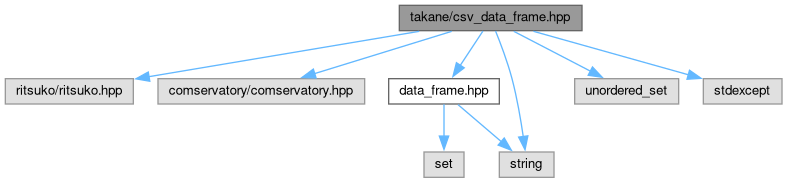
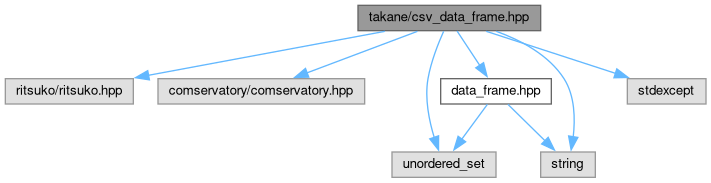
Deploying to gh-pages from @ ArtifactDB/takane@bec4c52731eb27a980d012ab4fdaf152412fb62d 🚀

Changed region(s): [[0.0, 0.0, 1.0, 0.9836], [0.7426, 0.6831, 0.8354, 0.9836], [0.2475, 0.2459, 0.4332, 0.3825]]

diff --git a/docs/data__frame_8hpp_source.html b/docs/data__frame_8hpp_source.html
@@ -81,7 +81,7 @@ $(function() {
 <a href="data__frame_8hpp.html">Go to the documentation of this file.</a><div class="fragment"><div class="line"><a id="l00001" name="l00001"></a><span class="lineno">    1</span><span class="preprocessor">#ifndef TAKANE_DATA_FRAME_HPP</span></div>
 <div class="line"><a id="l00002" name="l00002"></a><span class="lineno">    2</span><span class="preprocessor">#define TAKANE_DATA_FRAME_HPP</span></div>
 <div class="line"><a id="l00003" name="l00003"></a><span class="lineno">    3</span> </div>
-<div class="line"><a id="l00004" name="l00004"></a><span class="lineno">    4</span><span class="preprocessor">#include &lt;set&gt;</span></div>
+<div class="line"><a id="l00004" name="l00004"></a><span class="lineno">    4</span><span class="preprocessor">#include &lt;unordered_set&gt;</span></div>
 <div class="line"><a id="l00005" name="l00005"></a><span class="lineno">    5</span><span class="preprocessor">#include &lt;string&gt;</span></div>
 <div class="line"><a id="l00006" name="l00006"></a><span class="lineno">    6</span> </div>
 <div class="line"><a id="l00012" name="l00012"></a><span class="lineno">   12</span><span class="keyword">namespace </span>takane {</div>
@@ -110,13 +110,13 @@ $(function() {
 <div class="line"><a id="l00061" name="l00061"></a><span class="lineno">   61</span> </div>
 <div class="line"><a id="l00065" name="l00065"></a><span class="lineno"><a class="line" href="structtakane_1_1data__frame_1_1ColumnDetails.html#a2ce87b640816dcded292d3a1aa761db0">   65</a></span>    <a class="code hl_enumeration" href="data__frame_8hpp.html#ae9316d06d2cc382804fa777f595f34e9">StringFormat</a> <a class="code hl_variable" href="structtakane_1_1data__frame_1_1ColumnDetails.html#a2ce87b640816dcded292d3a1aa761db0">format</a> = StringFormat::NONE;</div>
 <div class="line"><a id="l00066" name="l00066"></a><span class="lineno">   66</span> </div>
-<div class="line"><a id="l00070" name="l00070"></a><span class="lineno"><a class="line" href="structtakane_1_1data__frame_1_1ColumnDetails.html#aeafc9024e72cc95bce8bf48b0aa78229">   70</a></span>    std::set&lt;std::string&gt; <a class="code hl_variable" href="structtakane_1_1data__frame_1_1ColumnDetails.html#aeafc9024e72cc95bce8bf48b0aa78229">factor_levels</a>;</div>
+<div class="line"><a id="l00070" name="l00070"></a><span class="lineno"><a class="line" href="structtakane_1_1data__frame_1_1ColumnDetails.html#a1da608f167850a020b9ef8daa99a0194">   70</a></span>    std::unordered_set&lt;std::string&gt; <a class="code hl_variable" href="structtakane_1_1data__frame_1_1ColumnDetails.html#a1da608f167850a020b9ef8daa99a0194">factor_levels</a>;</div>
 <div class="line"><a id="l00071" name="l00071"></a><span class="lineno">   71</span> </div>
 <div class="line"><a id="l00076" name="l00076"></a><span class="lineno"><a class="line" href="structtakane_1_1data__frame_1_1ColumnDetails.html#a3ff00d2d3f624d543c1dd61bb486c25b">   76</a></span>    <span class="keywordtype">void</span> <a class="code hl_function" href="structtakane_1_1data__frame_1_1ColumnDetails.html#a3ff00d2d3f624d543c1dd61bb486c25b">add_factor_level</a>(std::string x) {</div>
-<div class="line"><a id="l00077" name="l00077"></a><span class="lineno">   77</span>        <span class="keywordflow">if</span> (<a class="code hl_variable" href="structtakane_1_1data__frame_1_1ColumnDetails.html#aeafc9024e72cc95bce8bf48b0aa78229">factor_levels</a>.find(x) != <a class="code hl_variable" href="structtakane_1_1data__frame_1_1ColumnDetails.html#aeafc9024e72cc95bce8bf48b0aa78229">factor_levels</a>.end()) {</div>
+<div class="line"><a id="l00077" name="l00077"></a><span class="lineno">   77</span>        <span class="keywordflow">if</span> (<a class="code hl_variable" href="structtakane_1_1data__frame_1_1ColumnDetails.html#a1da608f167850a020b9ef8daa99a0194">factor_levels</a>.find(x) != <a class="code hl_variable" href="structtakane_1_1data__frame_1_1ColumnDetails.html#a1da608f167850a020b9ef8daa99a0194">factor_levels</a>.end()) {</div>
 <div class="line"><a id="l00078" name="l00078"></a><span class="lineno">   78</span>            <span class="keywordflow">throw</span> std::runtime_error(<span class="stringliteral">&quot;factor level &#39;&quot;</span> + x + <span class="stringliteral">&quot;&#39; already exists in this column&quot;</span>);</div>
 <div class="line"><a id="l00079" name="l00079"></a><span class="lineno">   79</span>        }</div>
-<div class="line"><a id="l00080" name="l00080"></a><span class="lineno">   80</span>        <a class="code hl_variable" href="structtakane_1_1data__frame_1_1ColumnDetails.html#aeafc9024e72cc95bce8bf48b0aa78229">factor_levels</a>.insert(std::move(x));</div>
+<div class="line"><a id="l00080" name="l00080"></a><span class="lineno">   80</span>        <a class="code hl_variable" href="structtakane_1_1data__frame_1_1ColumnDetails.html#a1da608f167850a020b9ef8daa99a0194">factor_levels</a>.insert(std::move(x));</div>
 <div class="line"><a id="l00081" name="l00081"></a><span class="lineno">   81</span>    }</div>
 <div class="line"><a id="l00082" name="l00082"></a><span class="lineno">   82</span>};</div>
 <div class="line"><a id="l00083" name="l00083"></a><span class="lineno">   83</span> </div>
@@ -128,11 +128,11 @@ $(function() {
 <div class="ttc" id="adata__frame_8hpp_html_a7e9c7d00676330721b873a92bbb8302b"><div class="ttname"><a href="data__frame_8hpp.html#a7e9c7d00676330721b873a92bbb8302b">takane::data_frame::ColumnType</a></div><div class="ttdeci">ColumnType</div><div class="ttdef"><b>Definition:</b> data_frame.hpp:26</div></div>
 <div class="ttc" id="adata__frame_8hpp_html_ae9316d06d2cc382804fa777f595f34e9"><div class="ttname"><a href="data__frame_8hpp.html#ae9316d06d2cc382804fa777f595f34e9">takane::data_frame::StringFormat</a></div><div class="ttdeci">StringFormat</div><div class="ttdef"><b>Definition:</b> data_frame.hpp:42</div></div>
 <div class="ttc" id="astructtakane_1_1data__frame_1_1ColumnDetails_html"><div class="ttname"><a href="structtakane_1_1data__frame_1_1ColumnDetails.html">takane::data_frame::ColumnDetails</a></div><div class="ttdoc">Details for a column of a data frame.</div><div class="ttdef"><b>Definition:</b> data_frame.hpp:51</div></div>
+<div class="ttc" id="astructtakane_1_1data__frame_1_1ColumnDetails_html_a1da608f167850a020b9ef8daa99a0194"><div class="ttname"><a href="structtakane_1_1data__frame_1_1ColumnDetails.html#a1da608f167850a020b9ef8daa99a0194">takane::data_frame::ColumnDetails::factor_levels</a></div><div class="ttdeci">std::unordered_set&lt; std::string &gt; factor_levels</div><div class="ttdef"><b>Definition:</b> data_frame.hpp:70</div></div>
 <div class="ttc" id="astructtakane_1_1data__frame_1_1ColumnDetails_html_a2ce87b640816dcded292d3a1aa761db0"><div class="ttname"><a href="structtakane_1_1data__frame_1_1ColumnDetails.html#a2ce87b640816dcded292d3a1aa761db0">takane::data_frame::ColumnDetails::format</a></div><div class="ttdeci">StringFormat format</div><div class="ttdef"><b>Definition:</b> data_frame.hpp:65</div></div>
 <div class="ttc" id="astructtakane_1_1data__frame_1_1ColumnDetails_html_a3ff00d2d3f624d543c1dd61bb486c25b"><div class="ttname"><a href="structtakane_1_1data__frame_1_1ColumnDetails.html#a3ff00d2d3f624d543c1dd61bb486c25b">takane::data_frame::ColumnDetails::add_factor_level</a></div><div class="ttdeci">void add_factor_level(std::string x)</div><div class="ttdef"><b>Definition:</b> data_frame.hpp:76</div></div>
 <div class="ttc" id="astructtakane_1_1data__frame_1_1ColumnDetails_html_abcf44f1458bbf7106606531afc065957"><div class="ttname"><a href="structtakane_1_1data__frame_1_1ColumnDetails.html#abcf44f1458bbf7106606531afc065957">takane::data_frame::ColumnDetails::name</a></div><div class="ttdeci">std::string name</div><div class="ttdef"><b>Definition:</b> data_frame.hpp:55</div></div>
 <div class="ttc" id="astructtakane_1_1data__frame_1_1ColumnDetails_html_abecf2ab0b4257f66b18a33685f8f81e4"><div class="ttname"><a href="structtakane_1_1data__frame_1_1ColumnDetails.html#abecf2ab0b4257f66b18a33685f8f81e4">takane::data_frame::ColumnDetails::type</a></div><div class="ttdeci">ColumnType type</div><div class="ttdef"><b>Definition:</b> data_frame.hpp:60</div></div>
-<div class="ttc" id="astructtakane_1_1data__frame_1_1ColumnDetails_html_aeafc9024e72cc95bce8bf48b0aa78229"><div class="ttname"><a href="structtakane_1_1data__frame_1_1ColumnDetails.html#aeafc9024e72cc95bce8bf48b0aa78229">takane::data_frame::ColumnDetails::factor_levels</a></div><div class="ttdeci">std::set&lt; std::string &gt; factor_levels</div><div class="ttdef"><b>Definition:</b> data_frame.hpp:70</div></div>
 </div><!-- fragment --></div><!-- contents -->
 <!-- start footer part -->
 <hr class="footer"/><address class="footer"><small>

diff --git a/docs/index.html b/docs/index.html
@@ -91,10 +91,10 @@ $(function() {
 <li><b>For <code>data_frame.version &gt;= 2</code>:</b> A factor column is represented by a integer HDF5 dataset. Any integer data type can be used at the discretion of the data generator, though the type's range of values must be representable by a 32-bit signed integer. Each integer is an index into the array of factor levels, found in the <code>data_frame.columns.levels</code> property. Each integer should be non-negative and less than the total number of levels, or equal to the missing value placeholder (see below).</li>
 <li><b>For <code>data_frame.version = 1</code>:</b> A factor column is represented by any string dataset. Each entry in the string dataset should either be present in the set of levels or be equal to the missing placeholder value (see below).</li>
 <li>Floating-point columns can be represented by any floating-point datatype at the discretion of the data generator. IEEE special values like Inf and NaN are allowed.</li>
-<li>String columns can be represented by any string datatype (fixed or variable, ASCII or UTF-8) at the discretion of the data generator. The character encoding specified in the dataset's type should be respected. Strings may be associated with further format constraints based on the <code>data_frame.columns.format</code> property, which may be one of the following:<ul>
+<li>String columns can be represented by any string datatype (fixed or variable, ASCII or UTF-8) at the discretion of the data generator. The character encoding specified in the dataset's type should be respected. Non-missing strings may be associated with further format constraints based on the <code>data_frame.columns.format</code> property, which may be one of the following:<ul>
 <li>No format constraints.</li>
 <li>String must be a <code>YYYY-MM-DD</code> date.</li>
-<li>String must be an Internet date/time complying with the RFC3339 specification. Note that strings equal to the missing value placeholder are not subject to these constraints.</li>
+<li>String must be an Internet date/time complying with the RFC3339 specification.</li>
 </ul>
 </li>
 </ul>
@@ -145,6 +145,28 @@ $(function() {
 </li>
 </ul>
 <p >For non-atomic columns, a placeholder column should be present in the CSV. This placeholder may be of any type as it will be ignored by readers.</p>
+<details >
+<p ><summary>Example usage</summary></p>
+<p >Here we validate a CSV data frame with columns of different types and row names:</p>
+<div class="fragment"><div class="line"><span class="preprocessor">#include &quot;takane/takane.hpp&quot;</span></div>
+<div class="line"> </div>
+<div class="line">std::vector&lt;takane::data_frame::ColumnDetails&gt; expected_columns(5);</div>
+<div class="line">expected_columns[0].type = takane::data_frame::ColumnType::INTEGER;</div>
+<div class="line">expected_columns[1].type = takane::data_frame::ColumnType::STRING;</div>
+<div class="line">expected_columns[2].type = takane::data_frame::ColumnType::STRING;</div>
+<div class="line">expected_columns[2].format = takane::data_frame::StringFormat::DATETIME;</div>
+<div class="line">expected_columns[3].type = takane::data_frame::ColumnType::FACTOR;</div>
+<div class="line">expected_columns[3].add_factor_level(<span class="stringliteral">&quot;foo&quot;</span>); <span class="comment">// taken from &#39;data_frame.columns[3].levels&#39;</span></div>
+<div class="line">expected_columns[3].add_factor_level(<span class="stringliteral">&quot;bar&quot;</span>);</div>
+<div class="line">expected_columns[4].type = takane::data_frame::ColumnType::NUMBER;</div>
+<div class="line"> </div>
+<div class="line">takane::data_frame::validate_csv(</div>
+<div class="line">    path, </div>
+<div class="line">    <span class="comment">/* num_rows = */</span> 9876, </div>
+<div class="line">    <span class="comment">/* has_row_names = */</span> <span class="keyword">true</span>, </div>
+<div class="line">    <span class="comment">/* columns = */</span> expected_columns</div>
+<div class="line">);</div>
+</div><!-- fragment --> </details>
 <h1>Building projects</h1>
 <h2>CMake with <code>FetchContent</code></h2>
 <p >If you're using CMake, you just need to add something like this to your <code>CMakeLists.txt</code>:</p>

diff --git a/docs/csv__data__frame_8hpp_source.html b/docs/csv__data__frame_8hpp_source.html
@@ -188,11 +188,11 @@ $(function() {
 <div class="line"><a id="l00116" name="l00116"></a><span class="lineno">  116</span>};</div>
 <div class="line"><a id="l00117" name="l00117"></a><span class="lineno">  117</span> </div>
 <div class="line"><a id="l00118" name="l00118"></a><span class="lineno">  118</span><span class="keyword">struct </span>TakaneFactorV1Field : <span class="keyword">public</span> comservatory::StringField {</div>
-<div class="line"><a id="l00119" name="l00119"></a><span class="lineno">  119</span>    TakaneFactorV1Field(<span class="keywordtype">size_t</span> n = 0, <span class="keywordtype">int</span> <span class="keywordtype">id</span> = 0, <span class="keyword">const</span> std::set&lt;std::string&gt;* l = NULL) : nrecords(n), column_id(id), levels(l) {}</div>
+<div class="line"><a id="l00119" name="l00119"></a><span class="lineno">  119</span>    TakaneFactorV1Field(<span class="keywordtype">size_t</span> n = 0, <span class="keywordtype">int</span> <span class="keywordtype">id</span> = 0, <span class="keyword">const</span> std::unordered_set&lt;std::string&gt;* l = NULL) : nrecords(n), column_id(id), levels(l) {}</div>
 <div class="line"><a id="l00120" name="l00120"></a><span class="lineno">  120</span> </div>
 <div class="line"><a id="l00121" name="l00121"></a><span class="lineno">  121</span>    <span class="keywordtype">size_t</span> nrecords = 0;</div>
 <div class="line"><a id="l00122" name="l00122"></a><span class="lineno">  122</span>    <span class="keywordtype">int</span> column_id = 0;</div>
-<div class="line"><a id="l00123" name="l00123"></a><span class="lineno">  123</span>    <span class="keyword">const</span> std::set&lt;std::string&gt;* levels = NULL;</div>
+<div class="line"><a id="l00123" name="l00123"></a><span class="lineno">  123</span>    <span class="keyword">const</span> std::unordered_set&lt;std::string&gt;* levels = NULL;</div>
 <div class="line"><a id="l00124" name="l00124"></a><span class="lineno">  124</span> </div>
 <div class="line"><a id="l00125" name="l00125"></a><span class="lineno">  125</span>    <span class="keywordtype">size_t</span> size()<span class="keyword"> const </span>{</div>
 <div class="line"><a id="l00126" name="l00126"></a><span class="lineno">  126</span>        <span class="keywordflow">return</span> nrecords;</div>
@@ -258,7 +258,7 @@ $(function() {
 <div class="line"><a id="l00200" name="l00200"></a><span class="lineno">  200</span>    }</div>
 <div class="line"><a id="l00201" name="l00201"></a><span class="lineno">  201</span> </div>
 <div class="line"><a id="l00202" name="l00202"></a><span class="lineno">  202</span>    <span class="keywordtype">size_t</span> ncol = columns.size();</div>
-<div class="line"><a id="l00203" name="l00203"></a><span class="lineno">  203</span>    std::set&lt;std::string&gt; present;</div>
+<div class="line"><a id="l00203" name="l00203"></a><span class="lineno">  203</span>    std::unordered_set&lt;std::string&gt; present;</div>
 <div class="line"><a id="l00204" name="l00204"></a><span class="lineno">  204</span>    <span class="keywordflow">for</span> (<span class="keywordtype">size_t</span> c = 0; c &lt; ncol; ++c) {</div>
 <div class="line"><a id="l00205" name="l00205"></a><span class="lineno">  205</span>        <span class="keyword">const</span> <span class="keyword">auto</span>&amp; col = columns[c];</div>
 <div class="line"><a id="l00206" name="l00206"></a><span class="lineno">  206</span>        <span class="keywordflow">if</span> (present.find(col.name) != present.end()) {</div>

diff --git a/docs/structtakane_1_1data__frame_1_1ColumnDetails.html b/docs/structtakane_1_1data__frame_1_1ColumnDetails.html
@@ -101,8 +101,8 @@ Public Attributes</h2></td></tr>
 <tr class="separator:abecf2ab0b4257f66b18a33685f8f81e4"><td class="memSeparator" colspan="2">&#160;</td></tr>
 <tr class="memitem:a2ce87b640816dcded292d3a1aa761db0"><td class="memItemLeft" align="right" valign="top"><a class="el" href="data__frame_8hpp.html#ae9316d06d2cc382804fa777f595f34e9">StringFormat</a>&#160;</td><td class="memItemRight" valign="bottom"><a class="el" href="structtakane_1_1data__frame_1_1ColumnDetails.html#a2ce87b640816dcded292d3a1aa761db0">format</a> = StringFormat::NONE</td></tr>
 <tr class="separator:a2ce87b640816dcded292d3a1aa761db0"><td class="memSeparator" colspan="2">&#160;</td></tr>
-<tr class="memitem:aeafc9024e72cc95bce8bf48b0aa78229"><td class="memItemLeft" align="right" valign="top">std::set&lt; std::string &gt;&#160;</td><td class="memItemRight" valign="bottom"><a class="el" href="structtakane_1_1data__frame_1_1ColumnDetails.html#aeafc9024e72cc95bce8bf48b0aa78229">factor_levels</a></td></tr>
-<tr class="separator:aeafc9024e72cc95bce8bf48b0aa78229"><td class="memSeparator" colspan="2">&#160;</td></tr>
+<tr class="memitem:a1da608f167850a020b9ef8daa99a0194"><td class="memItemLeft" align="right" valign="top">std::unordered_set&lt; std::string &gt;&#160;</td><td class="memItemRight" valign="bottom"><a class="el" href="structtakane_1_1data__frame_1_1ColumnDetails.html#a1da608f167850a020b9ef8daa99a0194">factor_levels</a></td></tr>
+<tr class="separator:a1da608f167850a020b9ef8daa99a0194"><td class="memSeparator" colspan="2">&#160;</td></tr>
 </table>
 <a name="details" id="details"></a><h2 class="groupheader">Detailed Description</h2>
 <div class="textblock"><p >Details for a column of a data frame. </p>
@@ -140,14 +140,14 @@ Public Attributes</h2></td></tr>
 </div>
 </div>
 <h2 class="groupheader">Member Data Documentation</h2>
-<a id="aeafc9024e72cc95bce8bf48b0aa78229" name="aeafc9024e72cc95bce8bf48b0aa78229"></a>
-<h2 class="memtitle"><span class="permalink"><a href="#aeafc9024e72cc95bce8bf48b0aa78229">&#9670;&#160;</a></span>factor_levels</h2>
+<a id="a1da608f167850a020b9ef8daa99a0194" name="a1da608f167850a020b9ef8daa99a0194"></a>
+<h2 class="memtitle"><span class="permalink"><a href="#a1da608f167850a020b9ef8daa99a0194">&#9670;&#160;</a></span>factor_levels</h2>
 
 <div class="memitem">
 <div class="memproto">
       <table class="memname">
         <tr>
-          <td class="memname">std::set&lt;std::string&gt; takane::data_frame::ColumnDetails::factor_levels</td>
+          <td class="memname">std::unordered_set&lt;std::string&gt; takane::data_frame::ColumnDetails::factor_levels</td>
         </tr>
       </table>
 </div><div class="memdoc">

diff --git a/docs/structtakane_1_1data__frame_1_1ColumnDetails-members.html b/docs/structtakane_1_1data__frame_1_1ColumnDetails-members.html
@@ -82,7 +82,7 @@ $(function() {
 <p>This is the complete list of members for <a class="el" href="structtakane_1_1data__frame_1_1ColumnDetails.html">takane::data_frame::ColumnDetails</a>, including all inherited members.</p>
 <table class="directory">
   <tr class="even"><td class="entry"><a class="el" href="structtakane_1_1data__frame_1_1ColumnDetails.html#a3ff00d2d3f624d543c1dd61bb486c25b">add_factor_level</a>(std::string x)</td><td class="entry"><a class="el" href="structtakane_1_1data__frame_1_1ColumnDetails.html">takane::data_frame::ColumnDetails</a></td><td class="entry"><span class="mlabel">inline</span></td></tr>
-  <tr class="odd"><td class="entry"><a class="el" href="structtakane_1_1data__frame_1_1ColumnDetails.html#aeafc9024e72cc95bce8bf48b0aa78229">factor_levels</a></td><td class="entry"><a class="el" href="structtakane_1_1data__frame_1_1ColumnDetails.html">takane::data_frame::ColumnDetails</a></td><td class="entry"></td></tr>
+  <tr class="odd"><td class="entry"><a class="el" href="structtakane_1_1data__frame_1_1ColumnDetails.html#a1da608f167850a020b9ef8daa99a0194">factor_levels</a></td><td class="entry"><a class="el" href="structtakane_1_1data__frame_1_1ColumnDetails.html">takane::data_frame::ColumnDetails</a></td><td class="entry"></td></tr>
   <tr class="even"><td class="entry"><a class="el" href="structtakane_1_1data__frame_1_1ColumnDetails.html#a2ce87b640816dcded292d3a1aa761db0">format</a></td><td class="entry"><a class="el" href="structtakane_1_1data__frame_1_1ColumnDetails.html">takane::data_frame::ColumnDetails</a></td><td class="entry"></td></tr>
   <tr class="odd"><td class="entry"><a class="el" href="structtakane_1_1data__frame_1_1ColumnDetails.html#abcf44f1458bbf7106606531afc065957">name</a></td><td class="entry"><a class="el" href="structtakane_1_1data__frame_1_1ColumnDetails.html">takane::data_frame::ColumnDetails</a></td><td class="entry"></td></tr>
   <tr class="even"><td class="entry"><a class="el" href="structtakane_1_1data__frame_1_1ColumnDetails.html#abecf2ab0b4257f66b18a33685f8f81e4">type</a></td><td class="entry"><a class="el" href="structtakane_1_1data__frame_1_1ColumnDetails.html">takane::data_frame::ColumnDetails</a></td><td class="entry"></td></tr>

diff --git a/docs/hdf5__data__frame_8hpp_source.html b/docs/hdf5__data__frame_8hpp_source.html
@@ -144,7 +144,7 @@ $(function() {
 <div class="line"><a id="l00080" name="l00080"></a><span class="lineno">   80</span>            }</div>
 <div class="line"><a id="l00081" name="l00081"></a><span class="lineno">   81</span>        );</div>
 <div class="line"><a id="l00082" name="l00082"></a><span class="lineno">   82</span> </div>
-<div class="line"><a id="l00083" name="l00083"></a><span class="lineno">   83</span>        std::set&lt;std::string&gt; column_names;</div>
+<div class="line"><a id="l00083" name="l00083"></a><span class="lineno">   83</span>        std::unordered_set&lt;std::string&gt; column_names;</div>
 <div class="line"><a id="l00084" name="l00084"></a><span class="lineno">   84</span>        <span class="keywordflow">for</span> (<span class="keyword">const</span> <span class="keyword">auto</span>&amp; col : columns) {</div>
 <div class="line"><a id="l00085" name="l00085"></a><span class="lineno">   85</span>            <span class="keywordflow">if</span> (column_names.find(col.name) != column_names.end()) {</div>
 <div class="line"><a id="l00086" name="l00086"></a><span class="lineno">   86</span>                <span class="keywordflow">throw</span> std::runtime_error(<span class="stringliteral">&quot;duplicated column name &#39;&quot;</span> + col.name + <span class="stringliteral">&quot;&#39;&quot;</span>);</div>

diff --git a/docs/csv__data__frame_8hpp.html b/docs/csv__data__frame_8hpp.html
@@ -94,14 +94,13 @@ Include dependency graph for csv_data_frame.hpp:</div>
 <div class="dyncontent">
 <div class="center"><img src="csv__data__frame_8hpp__incl.png" border="0" usemap="#atakane_2csv__data__frame_8hpp" alt=""/></div>
 <map name="atakane_2csv__data__frame_8hpp" id="atakane_2csv__data__frame_8hpp">
-<area shape="rect" title="Validation for CSV data frames." alt="" coords="399,5,582,31"/>
+<area shape="rect" title="Validation for CSV data frames." alt="" coords="358,5,541,31"/>
 <area shape="rect" title=" " alt="" coords="5,79,133,104"/>
 <area shape="rect" title=" " alt="" coords="158,79,365,104"/>
-<area shape="rect" href="data__frame_8hpp.html" title="Common data frame utilities." alt="" coords="389,79,499,104"/>
-<area shape="rect" title=" " alt="" coords="499,152,554,177"/>
-<area shape="rect" title=" " alt="" coords="575,79,679,104"/>
-<area shape="rect" title=" " alt="" coords="703,79,782,104"/>
-<area shape="rect" title=" " alt="" coords="424,152,464,177"/>
+<area shape="rect" href="data__frame_8hpp.html" title="Common data frame utilities." alt="" coords="441,79,551,104"/>
+<area shape="rect" title=" " alt="" coords="392,152,496,177"/>
+<area shape="rect" title=" " alt="" coords="541,152,595,177"/>
+<area shape="rect" title=" " alt="" coords="627,79,706,104"/>
 </map>
 </div>
 </div>

diff --git a/docs/functions.html b/docs/functions.html
@@ -73,7 +73,7 @@ $(function() {
 <div class="contents">
 <div class="textblock">Here is a list of all documented class members with links to the class documentation for each member:</div><ul>
 <li>add_factor_level()&#160;:&#160;<a class="el" href="structtakane_1_1data__frame_1_1ColumnDetails.html#a3ff00d2d3f624d543c1dd61bb486c25b">takane::data_frame::ColumnDetails</a></li>
-<li>factor_levels&#160;:&#160;<a class="el" href="structtakane_1_1data__frame_1_1ColumnDetails.html#aeafc9024e72cc95bce8bf48b0aa78229">takane::data_frame::ColumnDetails</a></li>
+<li>factor_levels&#160;:&#160;<a class="el" href="structtakane_1_1data__frame_1_1ColumnDetails.html#a1da608f167850a020b9ef8daa99a0194">takane::data_frame::ColumnDetails</a></li>
 <li>format&#160;:&#160;<a class="el" href="structtakane_1_1data__frame_1_1ColumnDetails.html#a2ce87b640816dcded292d3a1aa761db0">takane::data_frame::ColumnDetails</a></li>
 <li>name&#160;:&#160;<a class="el" href="structtakane_1_1data__frame_1_1ColumnDetails.html#abcf44f1458bbf7106606531afc065957">takane::data_frame::ColumnDetails</a></li>
 <li>type&#160;:&#160;<a class="el" href="structtakane_1_1data__frame_1_1ColumnDetails.html#abecf2ab0b4257f66b18a33685f8f81e4">takane::data_frame::ColumnDetails</a></li>

diff --git a/docs/data__frame_8hpp.html b/docs/data__frame_8hpp.html
@@ -84,16 +84,16 @@ $(function() {
 
 <p>Common data frame utilities.  
 <a href="#details">More...</a></p>
-<div class="textblock"><code>#include &lt;set&gt;</code><br />
+<div class="textblock"><code>#include &lt;unordered_set&gt;</code><br />
 <code>#include &lt;string&gt;</code><br />
 </div><div class="textblock"><div class="dynheader">
 Include dependency graph for data_frame.hpp:</div>
 <div class="dyncontent">
 <div class="center"><img src="data__frame_8hpp__incl.png" border="0" usemap="#atakane_2data__frame_8hpp" alt=""/></div>
 <map name="atakane_2data__frame_8hpp" id="atakane_2data__frame_8hpp">
-<area shape="rect" title="Common data frame utilities." alt="" coords="5,5,160,31"/>
-<area shape="rect" title=" " alt="" coords="27,79,67,104"/>
-<area shape="rect" title=" " alt="" coords="91,79,146,104"/>
+<area shape="rect" title="Common data frame utilities." alt="" coords="32,5,187,31"/>
+<area shape="rect" title=" " alt="" coords="5,79,109,104"/>
+<area shape="rect" title=" " alt="" coords="134,79,189,104"/>
 </map>
 </div>
 </div><div class="textblock"><div class="dynheader">

diff --git a/docs/functions_vars.html b/docs/functions_vars.html
@@ -72,7 +72,7 @@ $(function() {
 
 <div class="contents">
 &#160;<ul>
-<li>factor_levels&#160;:&#160;<a class="el" href="structtakane_1_1data__frame_1_1ColumnDetails.html#aeafc9024e72cc95bce8bf48b0aa78229">takane::data_frame::ColumnDetails</a></li>
+<li>factor_levels&#160;:&#160;<a class="el" href="structtakane_1_1data__frame_1_1ColumnDetails.html#a1da608f167850a020b9ef8daa99a0194">takane::data_frame::ColumnDetails</a></li>
 <li>format&#160;:&#160;<a class="el" href="structtakane_1_1data__frame_1_1ColumnDetails.html#a2ce87b640816dcded292d3a1aa761db0">takane::data_frame::ColumnDetails</a></li>
 <li>name&#160;:&#160;<a class="el" href="structtakane_1_1data__frame_1_1ColumnDetails.html#abcf44f1458bbf7106606531afc065957">takane::data_frame::ColumnDetails</a></li>
 <li>type&#160;:&#160;<a class="el" href="structtakane_1_1data__frame_1_1ColumnDetails.html#abecf2ab0b4257f66b18a33685f8f81e4">takane::data_frame::ColumnDetails</a></li>

diff --git a/docs/hdf5__data__frame_8hpp.html b/docs/hdf5__data__frame_8hpp.html
@@ -101,11 +101,11 @@ Include dependency graph for hdf5_data_frame.hpp:</div>
 <area shape="rect" title=" " alt="" coords="101,79,229,104"/>
 <area shape="rect" title=" " alt="" coords="254,79,397,104"/>
 <area shape="rect" href="data__frame_8hpp.html" title="Common data frame utilities." alt="" coords="421,79,531,104"/>
-<area shape="rect" title=" " alt="" coords="531,152,586,177"/>
+<area shape="rect" title=" " alt="" coords="542,152,597,177"/>
 <area shape="rect" title=" " alt="" coords="607,79,668,104"/>
 <area shape="rect" title=" " alt="" coords="692,79,751,104"/>
 <area shape="rect" title=" " alt="" coords="775,79,854,104"/>
-<area shape="rect" title=" " alt="" coords="456,152,496,177"/>
+<area shape="rect" title=" " alt="" coords="413,152,517,177"/>
 </map>
 </div>
 </div>

diff --git a/docs/search/all_3.js b/docs/search/all_3.js
@@ -1,5 +1,5 @@
 var searchData=
 [
-  ['factor_5flevels_0',['factor_levels',['../structtakane_1_1data__frame_1_1ColumnDetails.html#aeafc9024e72cc95bce8bf48b0aa78229',1,'takane::data_frame::ColumnDetails']]],
+  ['factor_5flevels_0',['factor_levels',['../structtakane_1_1data__frame_1_1ColumnDetails.html#a1da608f167850a020b9ef8daa99a0194',1,'takane::data_frame::ColumnDetails']]],
   ['format_1',['format',['../structtakane_1_1data__frame_1_1ColumnDetails.html#a2ce87b640816dcded292d3a1aa761db0',1,'takane::data_frame::ColumnDetails']]]
 ];
